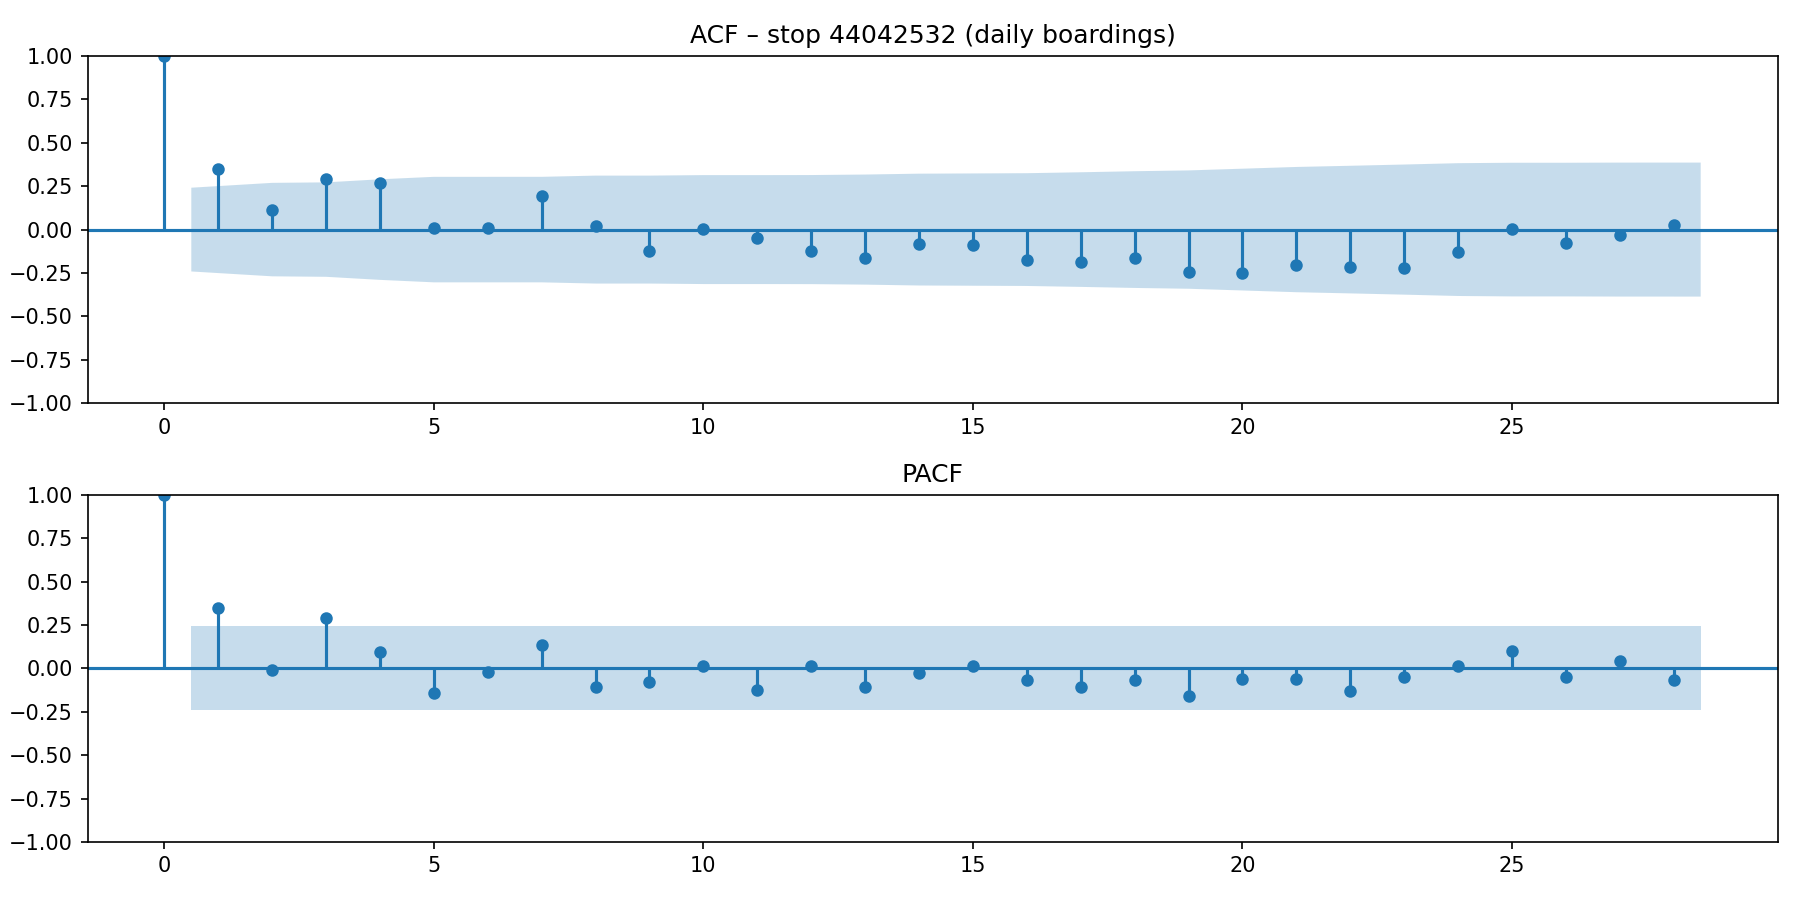
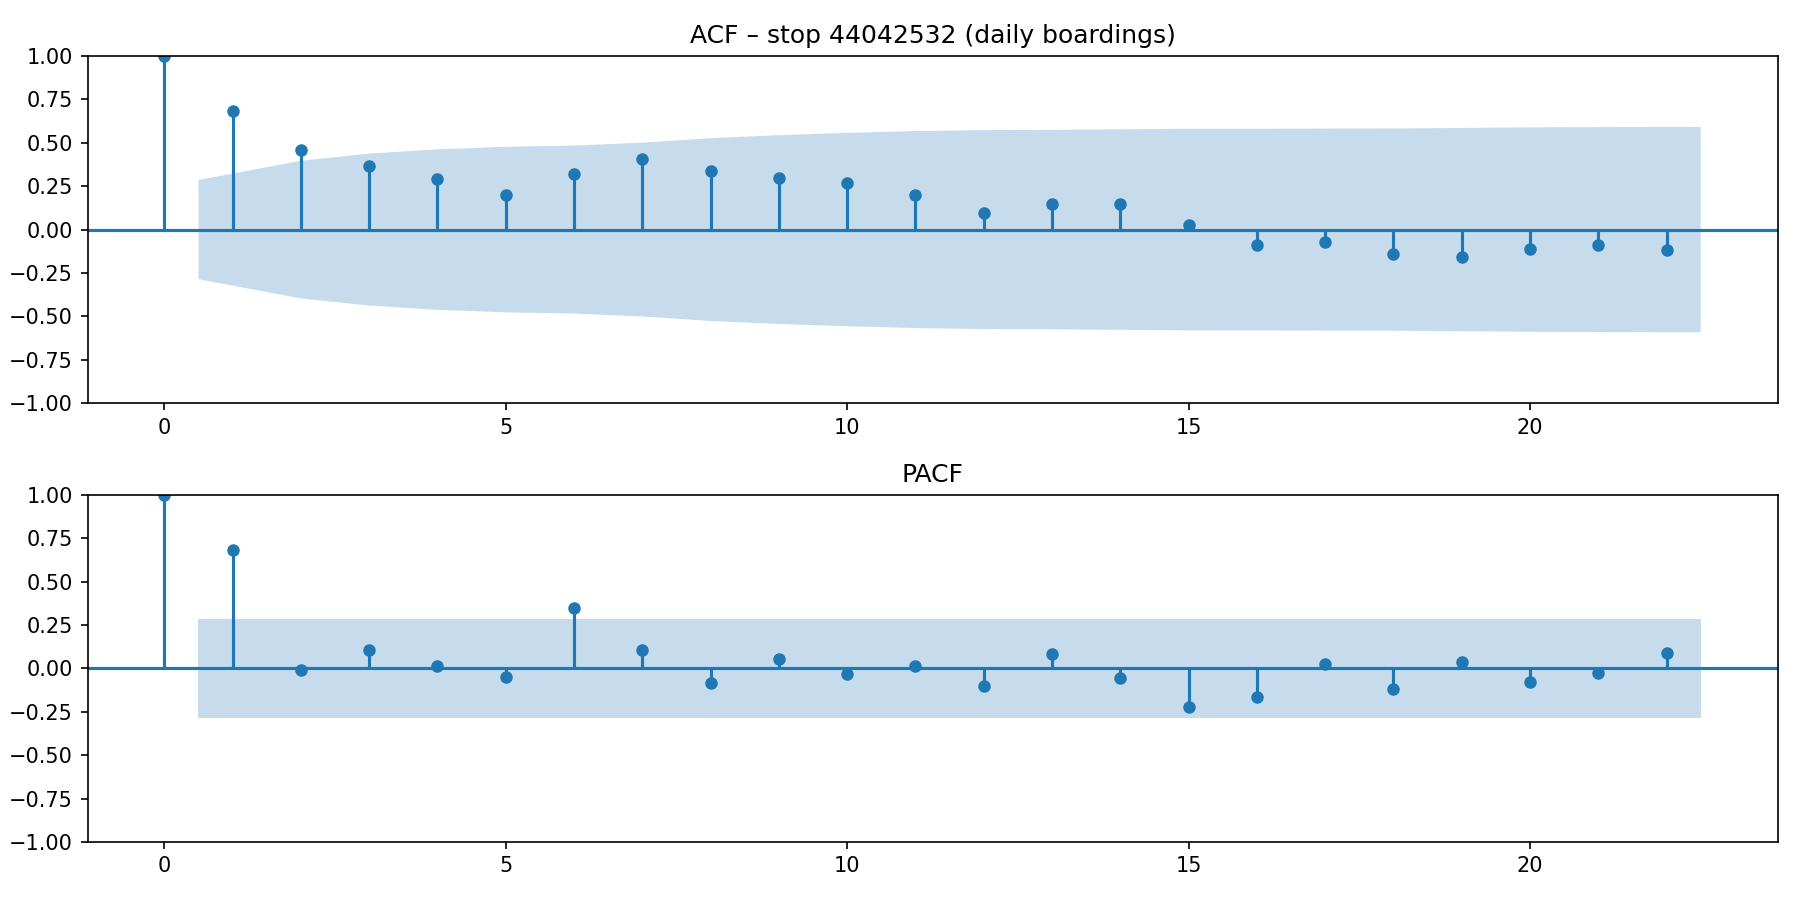
testing arima

diff --git a/03_forecast_sarima.py b/03_forecast_sarima.py
@@ -34,7 +34,7 @@ FREQ         = "D"        # daily boardings per stop
 SEASON_M     = 7          # weekly seasonality
 TEST_DAYS    = 14         # 2 weeks test set
 STOP_ID      = None       # None = busiest stop
-START_DATE   = "2024-09-30"
+START_DATE   = "2025-01-13"
 PERIODS      = 90         # calendar days to load (enough for ~6 seasonal cycles of M=7)
 
 # ---------------------------------------------------------------------------